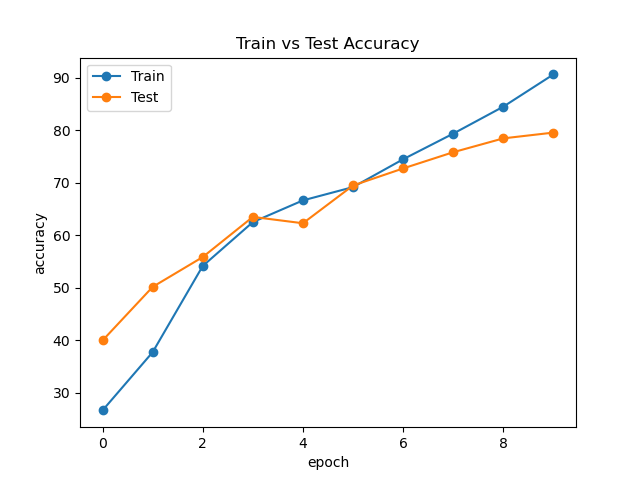
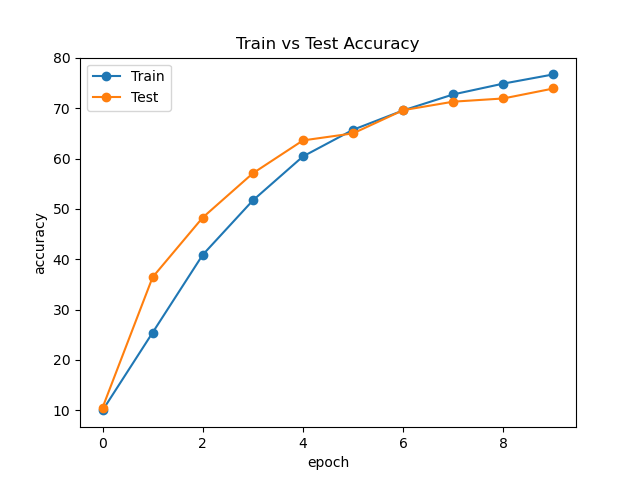
Learning rates changed

diff --git a/optimizer.py b/optimizer.py
@@ -74,12 +74,12 @@ def optim(model_name, model, lr):
         return optimizer, scheduler
     if model_name == 'alexnet':
         optimizer = torch.optim.SGD(model.parameters(), lr=lr, weight_decay=0.0005, momentum=0.9)
-        scheduler = CyclicLR(optimizer, base_lr=0.001, max_lr=0.1,step_size_up=5,mode="triangular")
+        scheduler = CyclicLR(optimizer, base_lr=1e-07, max_lr=0.1, step_size_up=100, mode="triangular")
         return optimizer, scheduler
     if model_name == 'vggnet':
         """THIS SETTING DOESN'T WORK, RESULTS IN NAN"""
         optimizer = torch.optim.SGD(model.parameters(), lr=lr, weight_decay=0.0005, momentum=0.9)
-        scheduler = CyclicLR(optimizer, base_lr=0.001, max_lr=0.1,step_size_up=5,mode="triangular")
+        scheduler = CyclicLR(optimizer, base_lr=1e-07, max_lr=0.1,step_size_up=50,mode="triangular")
         return optimizer, scheduler
     if model_name == 'vit':
         optimizer = torch.optim.SGD(model.parameters(),
@@ -116,5 +116,5 @@ def optim(model_name, model, lr):
 
     if model_name == 'gmlp':
         optimizer = torch.optim.SGD(model.parameters(), lr=0.01, momentum=0.9)
-        scheduler = CosineAnnealingLR(optimizer, T_max=200)
+        scheduler = CyclicLR(optimizer, base_lr=1e-07, max_lr=0.1, step_size_up=100, mode="exp_range")
         return optimizer, scheduler

diff --git a/augmentations.py b/augmentations.py
@@ -1,0 +1,27 @@
+import torchvision
+import torchvision.transforms as transforms
+
+def augmentation(image_resolution):
+    transform = transforms.Compose([transforms.ToTensor(), 
+                transforms.Resize((image_resolution, image_resolution)),
+                transforms.ColorJitter(brightness=.5, hue=.3),
+                transforms.RandomCrop(size=(224, 224)),
+                transforms.RandomHorizontalFlip(), 
+                transforms.Normalize(mean=[0.485, 0.456, 0.406], std=[0.229, 0.224, 0.225])])
+    return transform
+
+def ContrastiveAugmentation(image_resolution):
+    color_jitter = transforms.ColorJitter(0.8 * 1, 0.8 * 1, 0.8 * 1, 0.2 * 1)
+    # 10% of the image usually, but be careful with small image sizes
+    blur = transforms.GaussianBlur((3, 3), (0.1, 2.0))
+    transform = transforms.Compose([
+    transforms.ToTensor(),
+    transforms.Resize((image_resolution, image_resolution)),
+    transforms.RandomResizedCrop(size=(224, 224)),
+    transforms.RandomHorizontalFlip(p=0.5),
+    transforms.RandomApply([color_jitter], p=0.8),
+    transforms.RandomApply([blur], p=0.5),
+    transforms.RandomGrayscale(p=0.2),
+    transforms.Normalize(mean=[0.485, 0.456, 0.406], std=[0.229, 0.224, 0.225])])
+        
+    return transform

diff --git a/dataset.py b/dataset.py
@@ -1,5 +1,6 @@
 import torch
 import torchvision
+from augmentations import augmentation, ContrastiveAugmentation
 import torchvision.transforms as transforms
 
 class initialize_dataset:
@@ -8,11 +9,11 @@ class initialize_dataset:
         self.batch_size=batch_size
         self.MNIST = MNIST
 
-    def load_dataset(self, transform=None):
+    def load_dataset(self, transform=False):
         path = "/home/mayur/Desktop/Pytorch/data"
         #path = './data'
         if transform:
-            transform = transform
+            transform = ContrastiveAugmentation(image_resolution=self.image_resolution)
         elif self.MNIST:
             transform = transforms.Compose([transforms.ToTensor(), transforms.Resize((self.image_resolution, self.image_resolution)),
                                             transforms.Normalize((0.1307,), (0.3081,))])

diff --git a/main.py b/main.py
@@ -49,7 +49,7 @@ except FileNotFoundError:
 """Dataset Initialization"""
 data_initialization = initialize_dataset(image_resolution=config['parameters']['image_resolution'], batch_size=config['parameters']['batch_size'], 
                       MNIST=config['parameters']['MNIST'])
-train_dataloader, test_dataloader = data_initialization.load_dataset()
+train_dataloader, test_dataloader = data_initialization.load_dataset(transform=True)
 
 input_channel = next(iter(train_dataloader))[0].shape[1]
 #n_classes = len(torch.unique(next(iter(train_dataloader))[1]))
